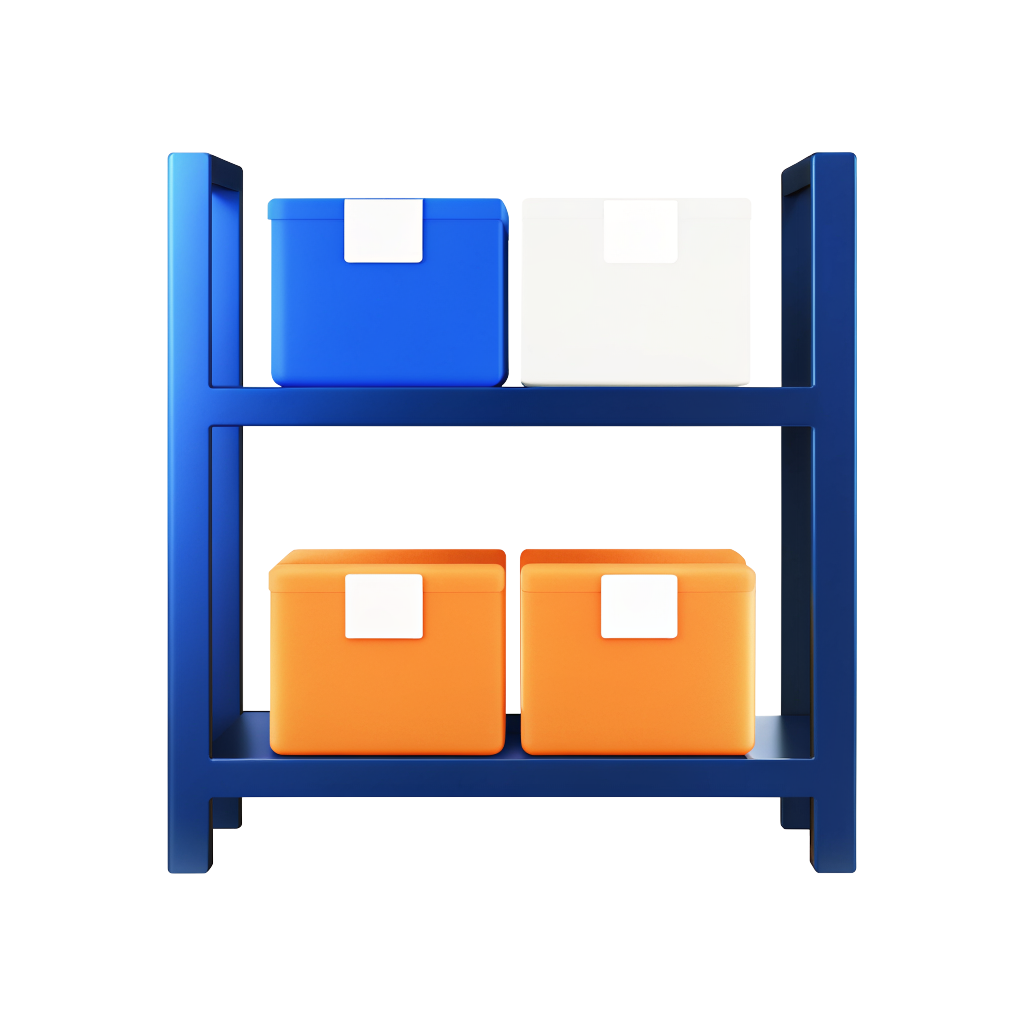
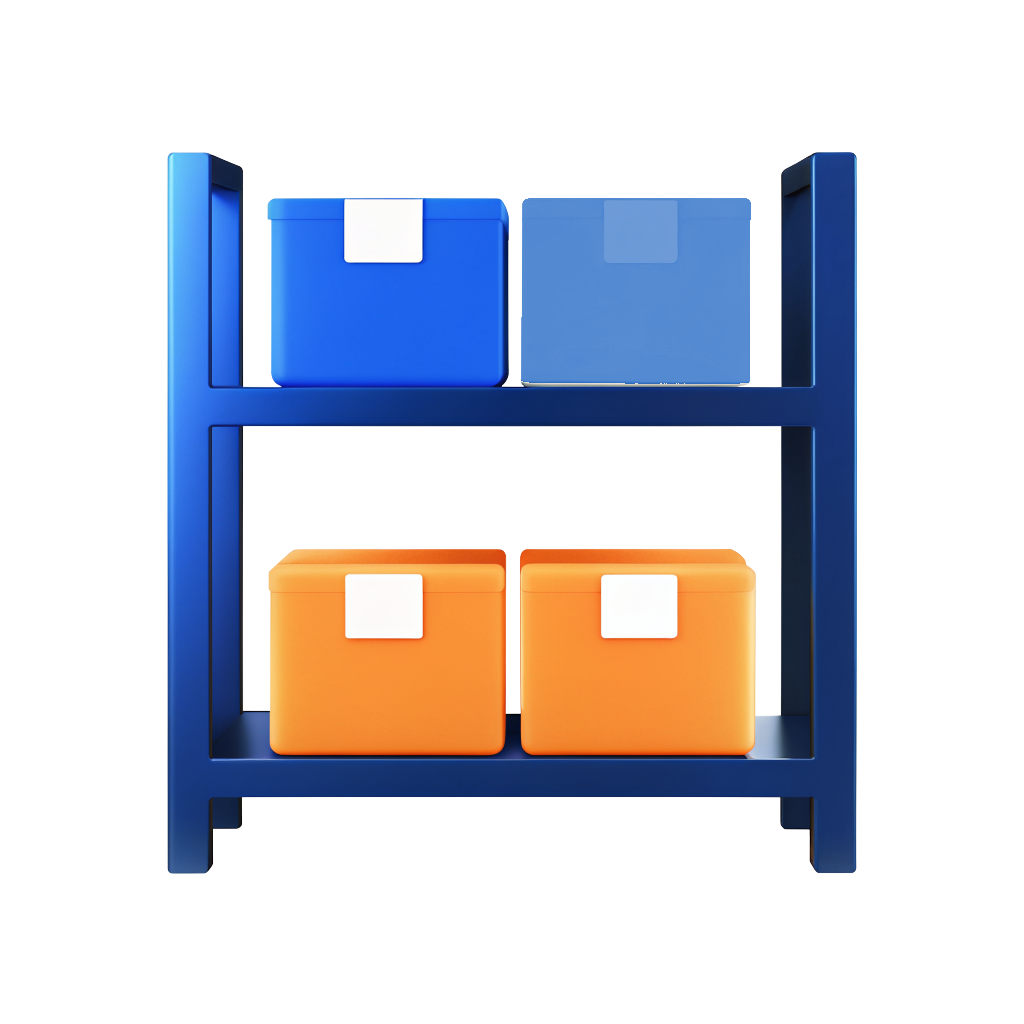
feat: regenerate full project catalog through the asset engine
Swaps every project card (except Nahtadi, which keeps its real App
Store icon) from the old flat public/images/projects/*.png screenshots
to assets composed by the asset engine at
public/images/projects/<id>/{icon,icon-squircle,card,github-banner}.png.
projects.json now points image/imageAlt at the new card.png files, and
src/lib/__tests__/projects.test.ts gains a files-exist check.

Two artwork defects were fixed in assets/artwork/ before composing:
- coast-guard-pilot-tracker.png: cropped out ~75px of baked-in white
  corner radius (an iOS-style rounding on the v1 anchor) that made the
  card render with white corners instead of full-bleed; cropped 84px
  inset and rescaled to 1024².
- coast-guard-inventory.png: recoloured an empty white carton face
  (read as a blank/missing box) to its shelf-mate's blue, isolating it
  as the largest connected near-white blob and preserving original
  shading; small white label patches on other boxes left untouched.

Six card gradients were changed after Omar's grid review flagged low
contrast — subject edges were blending into the ground on these
cards. New from/to pairs, applied in both src/data/projects.json
(brand.gradient) and src/lib/projectStyles.ts (className + stops):

- asl-detector:               #5B21B6 -> #2E1065
- collision-avoidance-radar:  #8DA2B8 -> #2F4058
- islamic-prayer-time:        #5EAFA3 -> #1F6F63
- mini-compiler:               #49F2E5 -> #7E22CE
- reddit-nlp:                  #1D4ED8 -> #0E7490
[…]

Changed region(s): [[0.5, 0.1875, 0.75, 0.375]]

diff --git a/src/lib/projectStyles.ts b/src/lib/projectStyles.ts
@@ -23,24 +23,24 @@ const PROJECT_GRADIENTS: Record<string, ProjectGradient> = {
     stops: { from: '#0F5F50', to: '#022E28' },
   },
   'mini-compiler': {
-    className: 'bg-gradient-to-br from-cyan-700 to-purple-900',
-    stops: { from: '#0E7490', to: '#581C87' },
+    className: 'bg-gradient-to-br from-[#49F2E5] to-[#7E22CE]',
+    stops: { from: '#49F2E5', to: '#7E22CE' },
   },
   'brent-cuda': {
     className: 'bg-gradient-to-br from-green-800 to-gray-900',
     stops: { from: '#166534', to: '#111827' },
   },
   'collision-avoidance-radar': {
-    className: 'bg-gradient-to-br from-gray-900 to-slate-800',
-    stops: { from: '#111827', to: '#1E293B' },
+    className: 'bg-gradient-to-br from-[#8DA2B8] to-[#2F4058]',
+    stops: { from: '#8DA2B8', to: '#2F4058' },
   },
   'wildfire-predictor': {
-    className: 'bg-gradient-to-br from-red-600 to-orange-500',
-    stops: { from: '#DC2626', to: '#F97316' },
+    className: 'bg-gradient-to-br from-[#991B1B] to-[#292524]',
+    stops: { from: '#991B1B', to: '#292524' },
   },
   'asl-detector': {
-    className: 'bg-gradient-to-br from-purple-600 to-purple-400',
-    stops: { from: '#9333EA', to: '#C084FC' },
+    className: 'bg-gradient-to-br from-[#5B21B6] to-[#2E1065]',
+    stops: { from: '#5B21B6', to: '#2E1065' },
   },
   'image-watermark-remover': {
     className: 'bg-gradient-to-br from-emerald-500 to-teal-400',
@@ -51,12 +51,12 @@ const PROJECT_GRADIENTS: Record<string, ProjectGradient> = {
     stops: { from: '#4F46E5', to: '#A855F7' },
   },
   'reddit-nlp': {
-    className: 'bg-gradient-to-br from-blue-500 to-teal-400',
-    stops: { from: '#3B82F6', to: '#2DD4BF' },
+    className: 'bg-gradient-to-br from-[#1D4ED8] to-[#0E7490]',
+    stops: { from: '#1D4ED8', to: '#0E7490' },
   },
   'islamic-prayer-time': {
-    className: 'bg-gradient-to-br from-green-700 to-green-900',
-    stops: { from: '#15803D', to: '#14532D' },
+    className: 'bg-gradient-to-br from-[#5EAFA3] to-[#1F6F63]',
+    stops: { from: '#5EAFA3', to: '#1F6F63' },
   },
   'coast-guard-pilot-tracker': {
     className: 'bg-gradient-to-br from-orange-500 to-blue-600',

diff --git a/src/lib/__tests__/projects.test.ts b/src/lib/__tests__/projects.test.ts
@@ -1,4 +1,5 @@
 import { describe, it, expect } from 'vitest'
+import { existsSync } from 'node:fs'
 import { getAllProjects, getFeaturedProjects, getProjectById } from '../projects'
 import { ProjectsFileSchema } from '../projectSchema'
 import projectsData from '../../data/projects.json'
@@ -93,5 +94,14 @@ describe('getShowcaseProjects', () => {
     const s = getShowcaseProjects()
     expect(s.length).toBeGreaterThan(0)
     s.forEach(p => expect(p.tier).toBe('showcase'))
+  })
+})
+
+describe('project assets', () => {
+  it('every project image path resolves to a real file in public/', () => {
+    getAllProjects().forEach((p) => {
+      expect(p.image, p.id).toBeDefined()
+      expect(existsSync(`public${p.image}`), `${p.id}: ${p.image}`).toBe(true)
+    })
   })
 })
